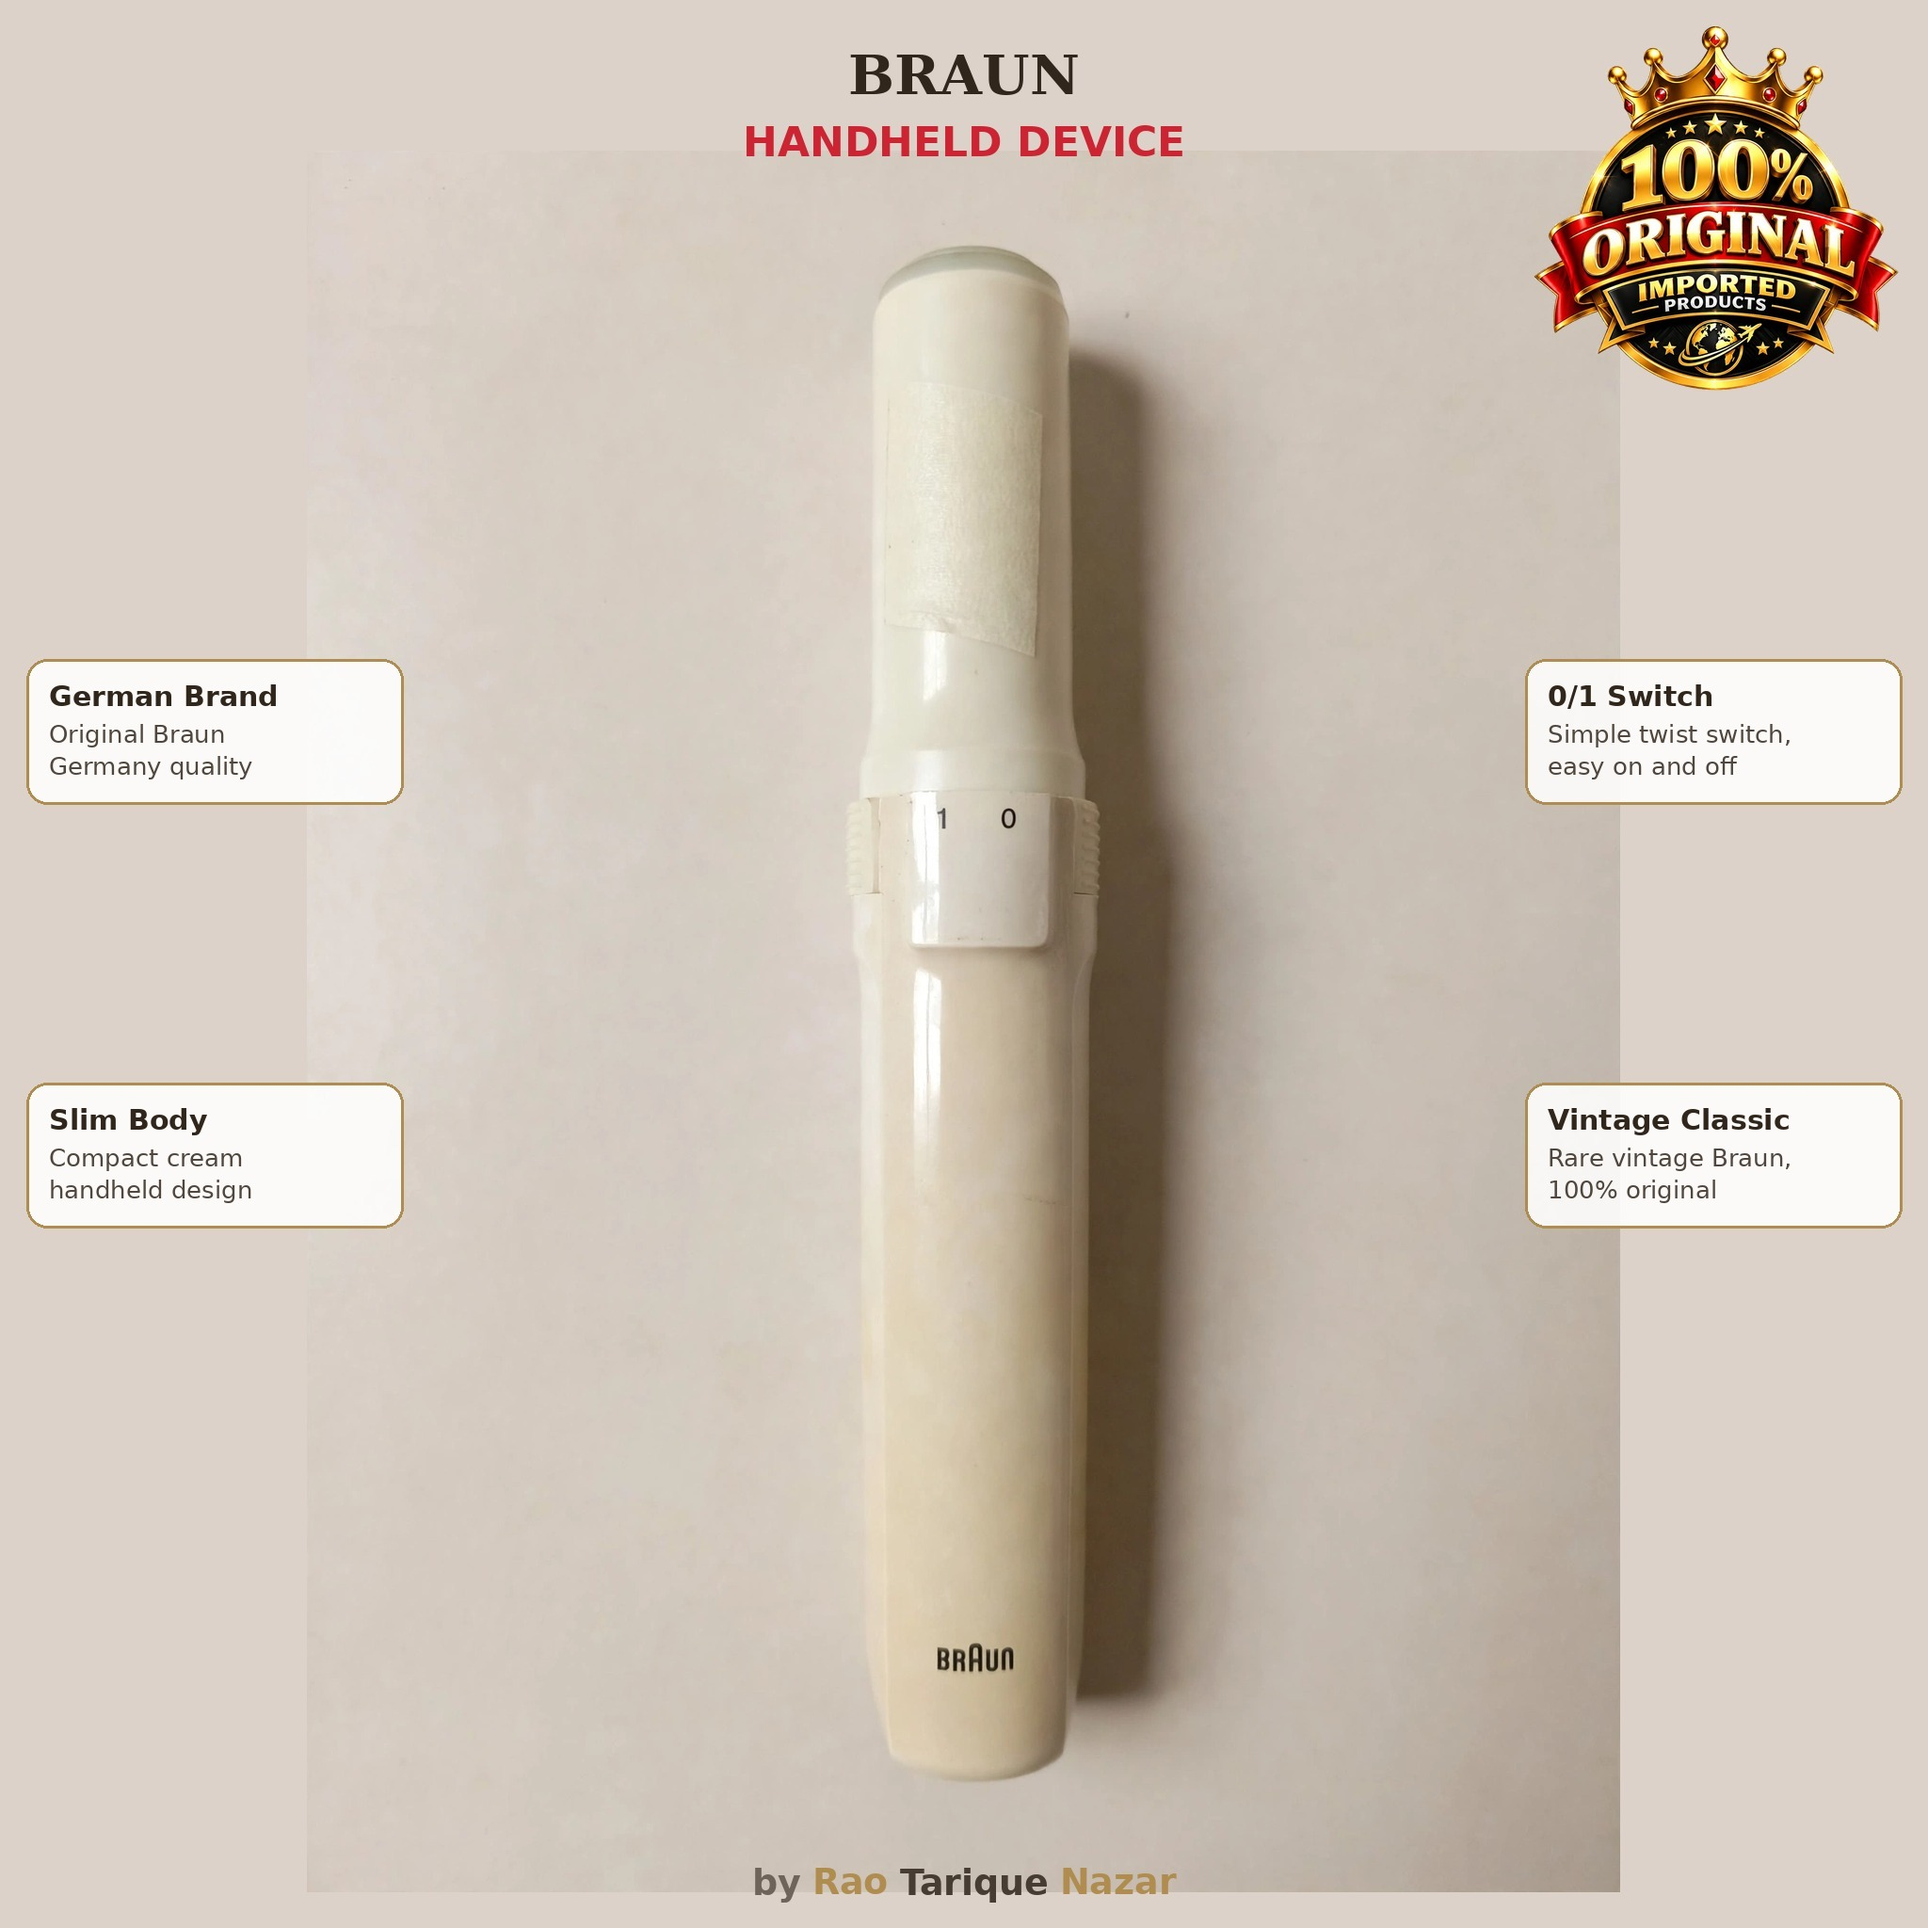
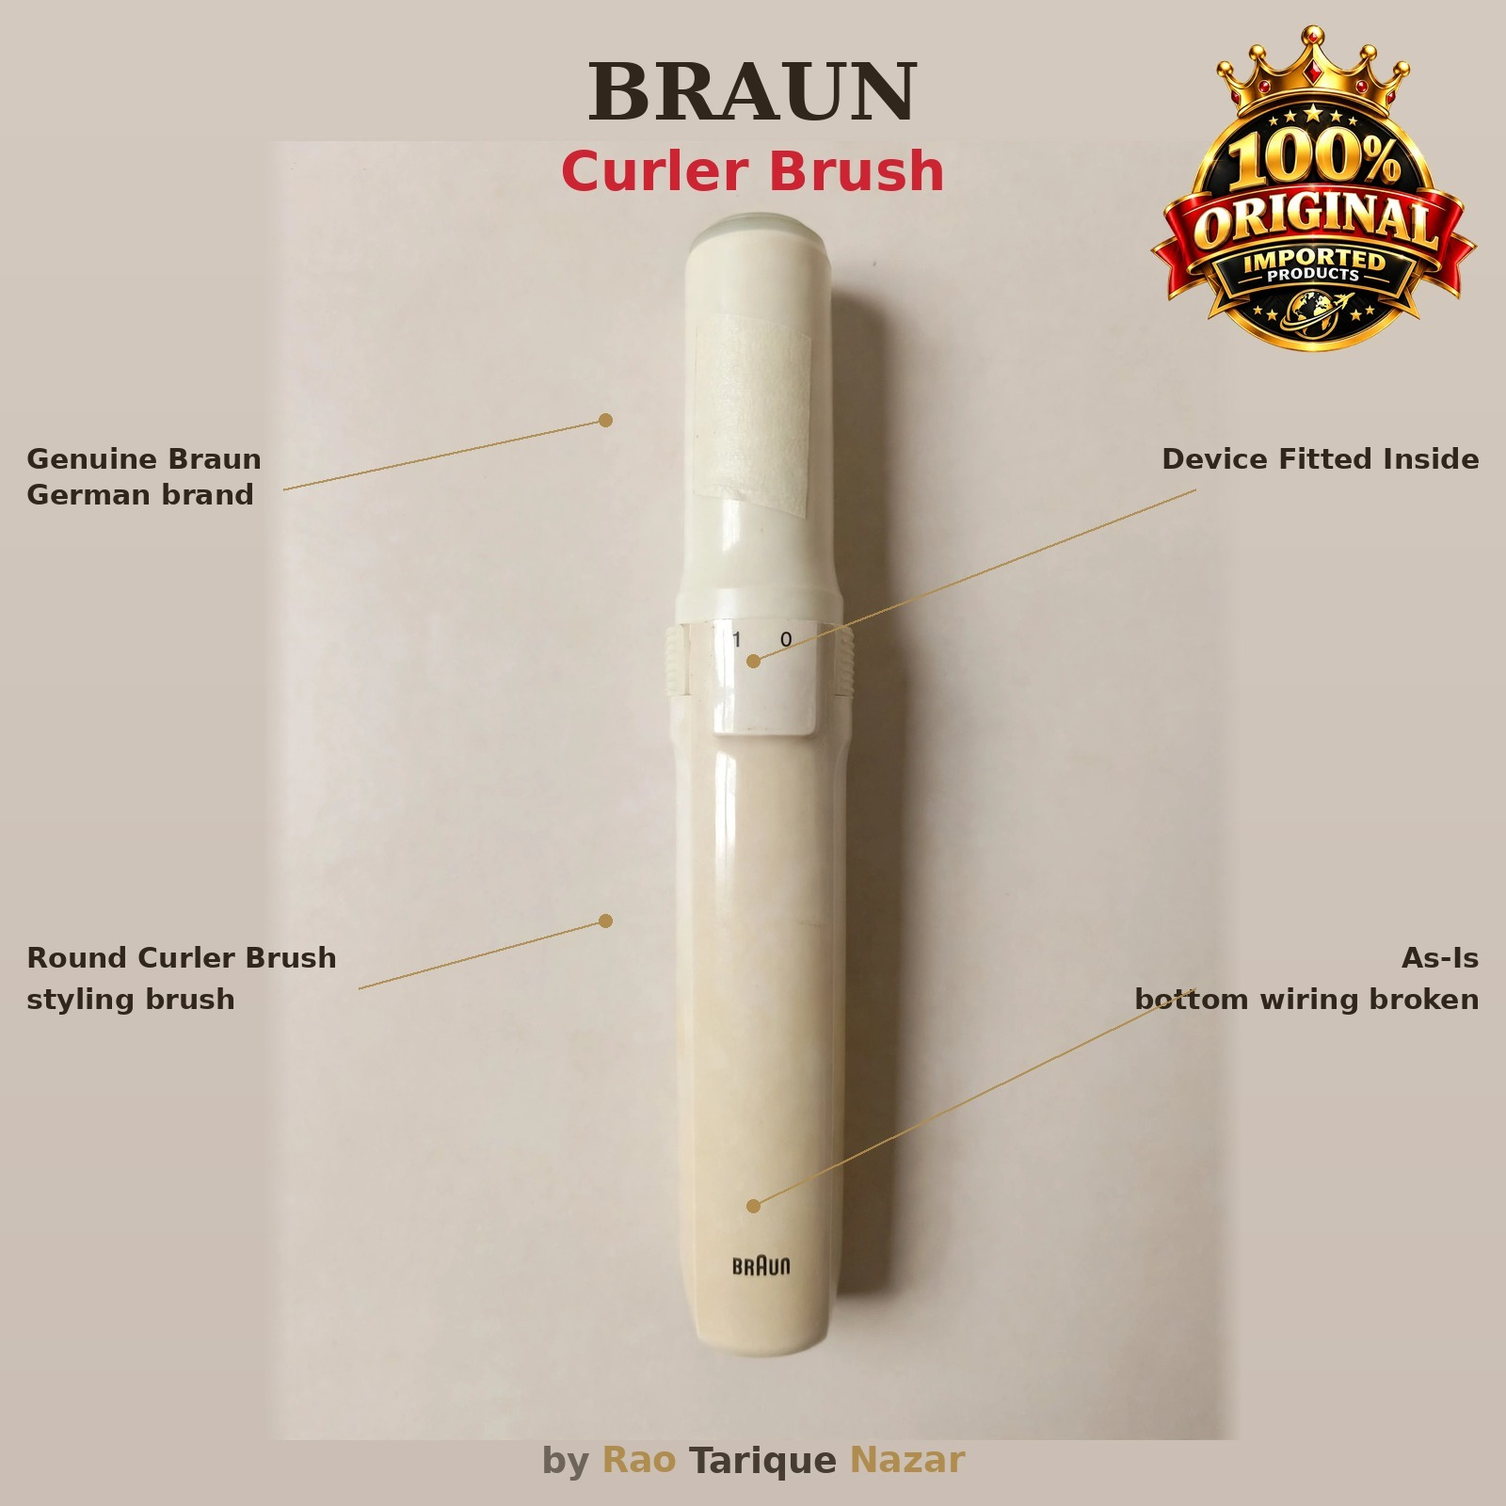
P166 renamed: Braun Curler Brush (Personal Grooming) Rs. 300 - as-is, bottom wiring broken

diff --git a/p/P166.html b/p/P166.html
@@ -2,8 +2,8 @@
 <html lang="en">
 <head>
 <meta charset="UTF-8">
-<meta property="og:title" content="Braun Handheld Device (Germany) — Rs. 300 | Raja Imported Items">
-<meta property="og:description" content="Original Braun handheld device in classic cream finish — vintage German quality. 100% Original Imported!">
+<meta property="og:title" content="Braun Curler Brush (Germany) — Rs. 300 | Raja Imported Items">
+<meta property="og:description" content="Braun curler brush with its device fitted inside. Please note: the wiring connection at the bottom is broken, so it is being sold as a simple round brush, as-is - a genuine Braun brush at a giveaway price. 100% Original Imported!">
 <meta property="og:image" content="https://tariquenazar5-rao.github.io/raja-imported-items/product-photos/og/P166-braun-handheld-device-og.jpg">
 <meta property="og:image:width" content="1200">
 <meta property="og:image:height" content="1200">
@@ -12,7 +12,7 @@
 <meta name="twitter:card" content="summary_large_image">
 <meta name="twitter:image" content="https://tariquenazar5-rao.github.io/raja-imported-items/product-photos/og/P166-braun-handheld-device-og.jpg">
 <meta http-equiv="refresh" content="0;url=https://tariquenazar5-rao.github.io/raja-imported-items/?product=P166">
-<title>Braun Handheld Device — Raja Imported Items</title>
+<title>Braun Curler Brush — Raja Imported Items</title>
 </head>
 <body>
 <script>
